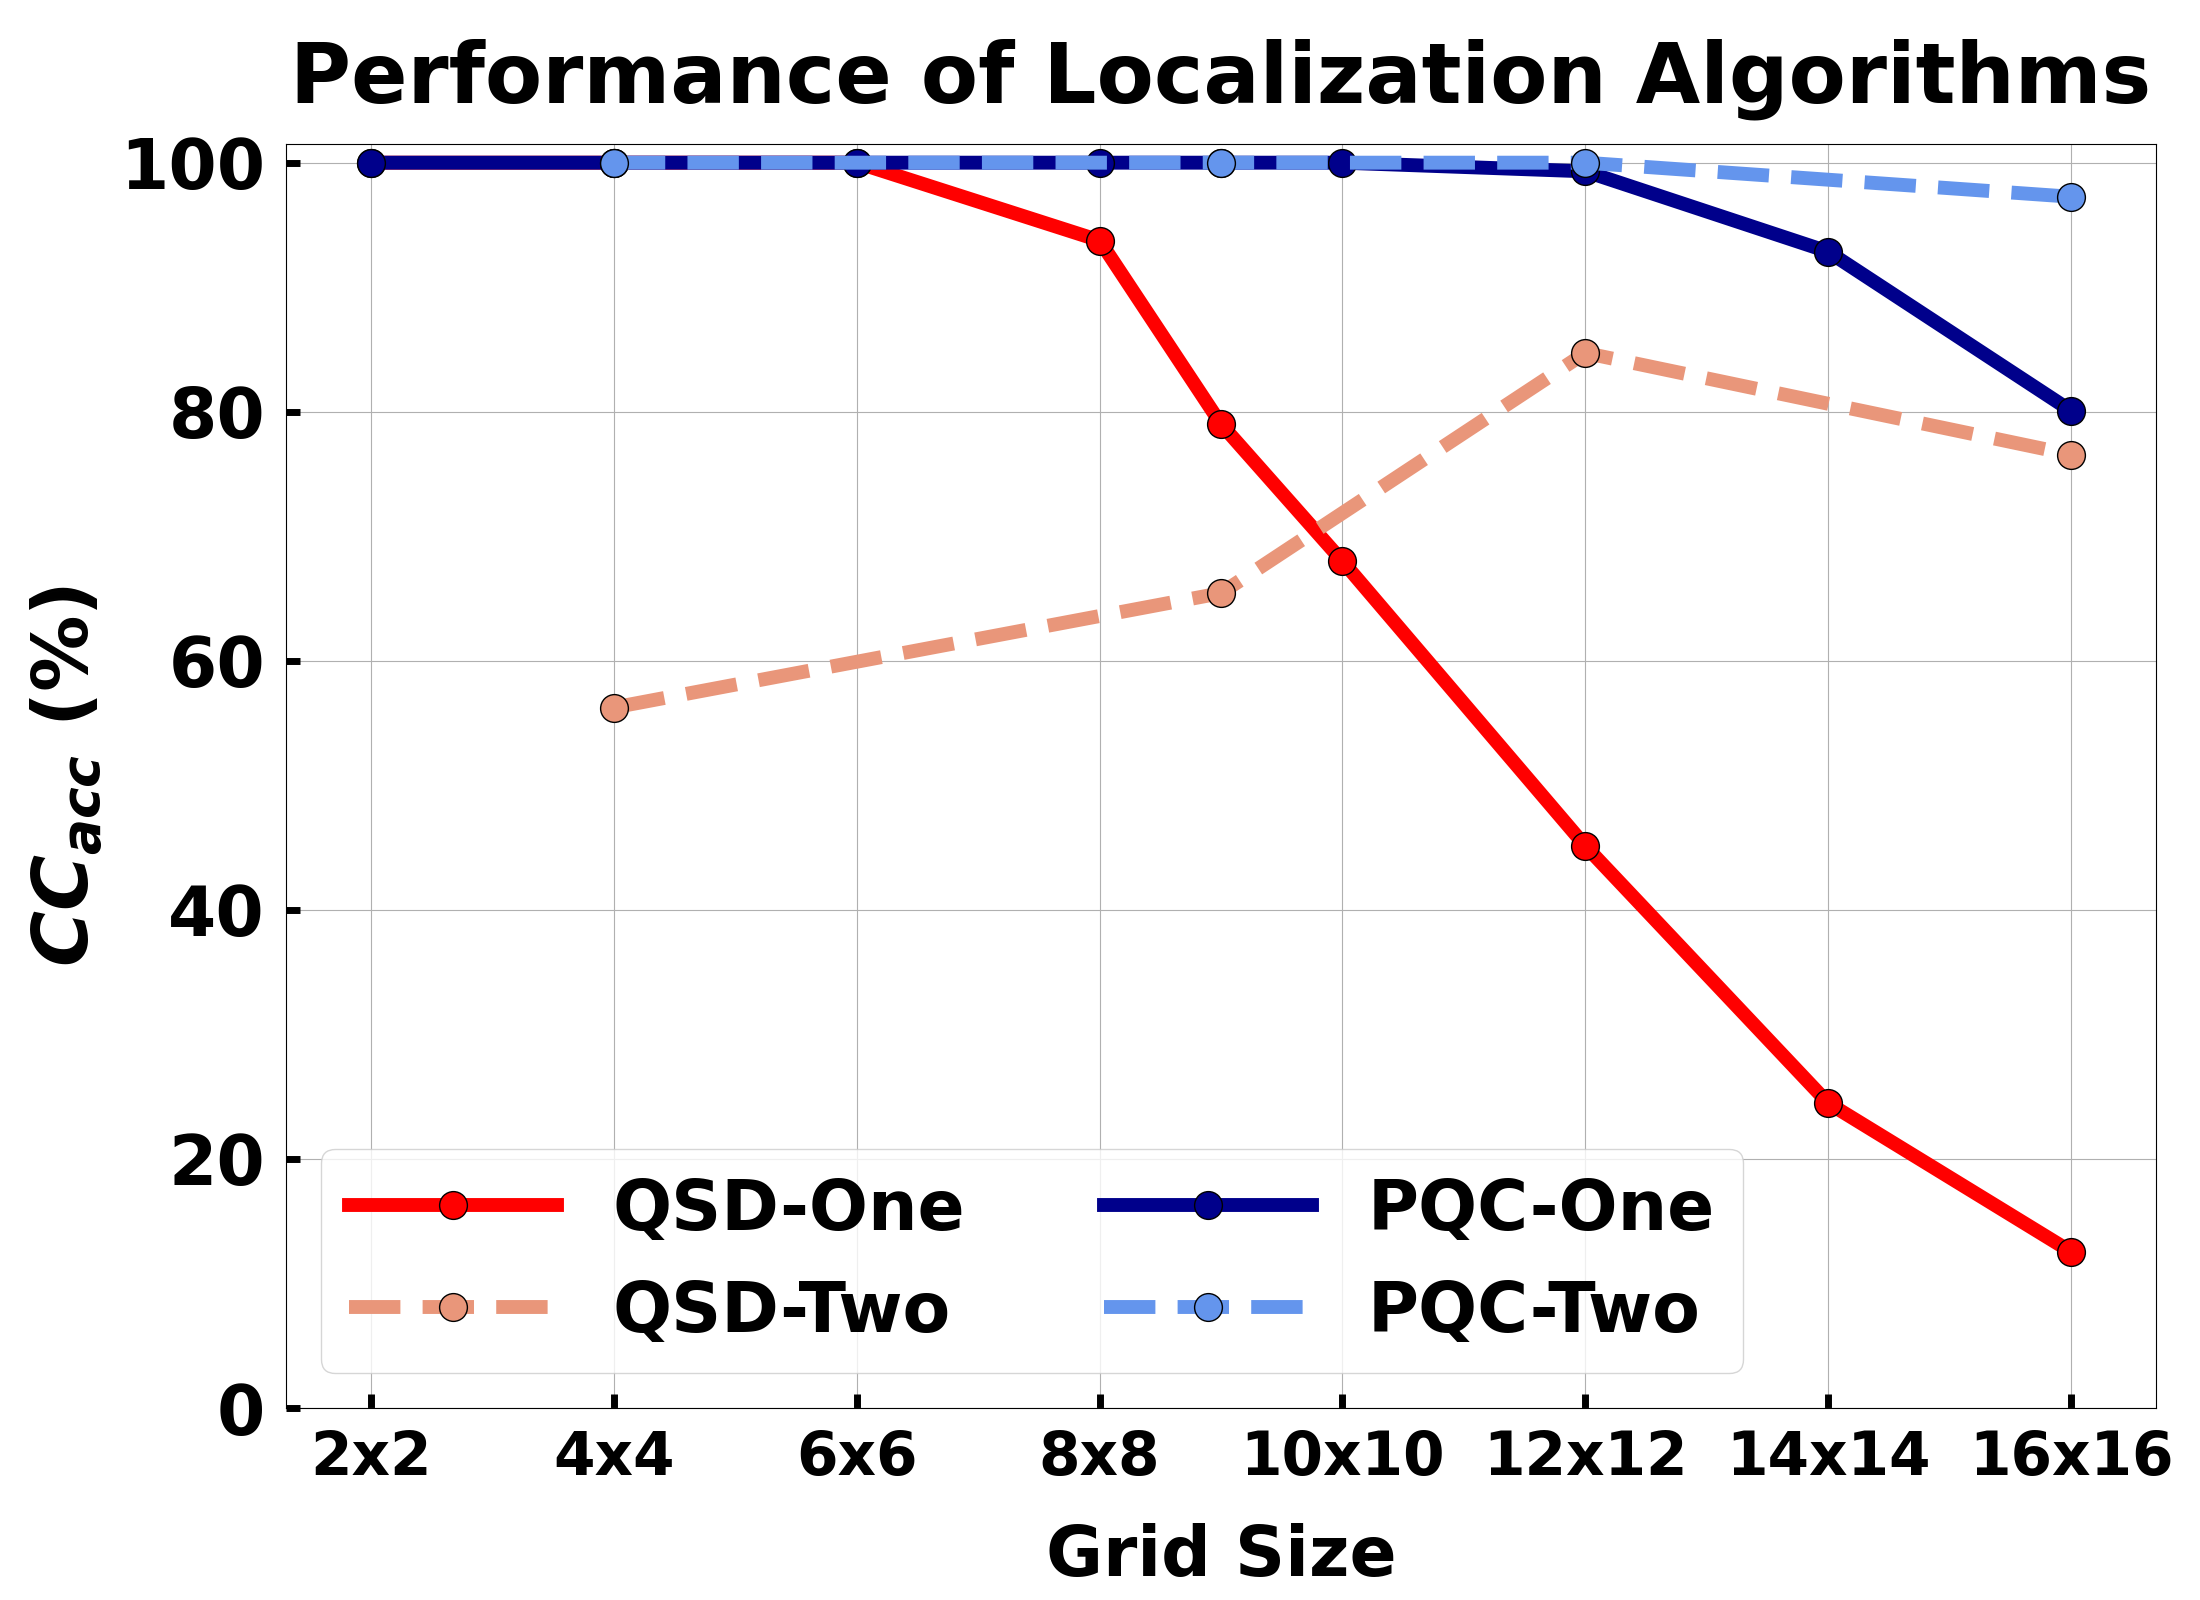
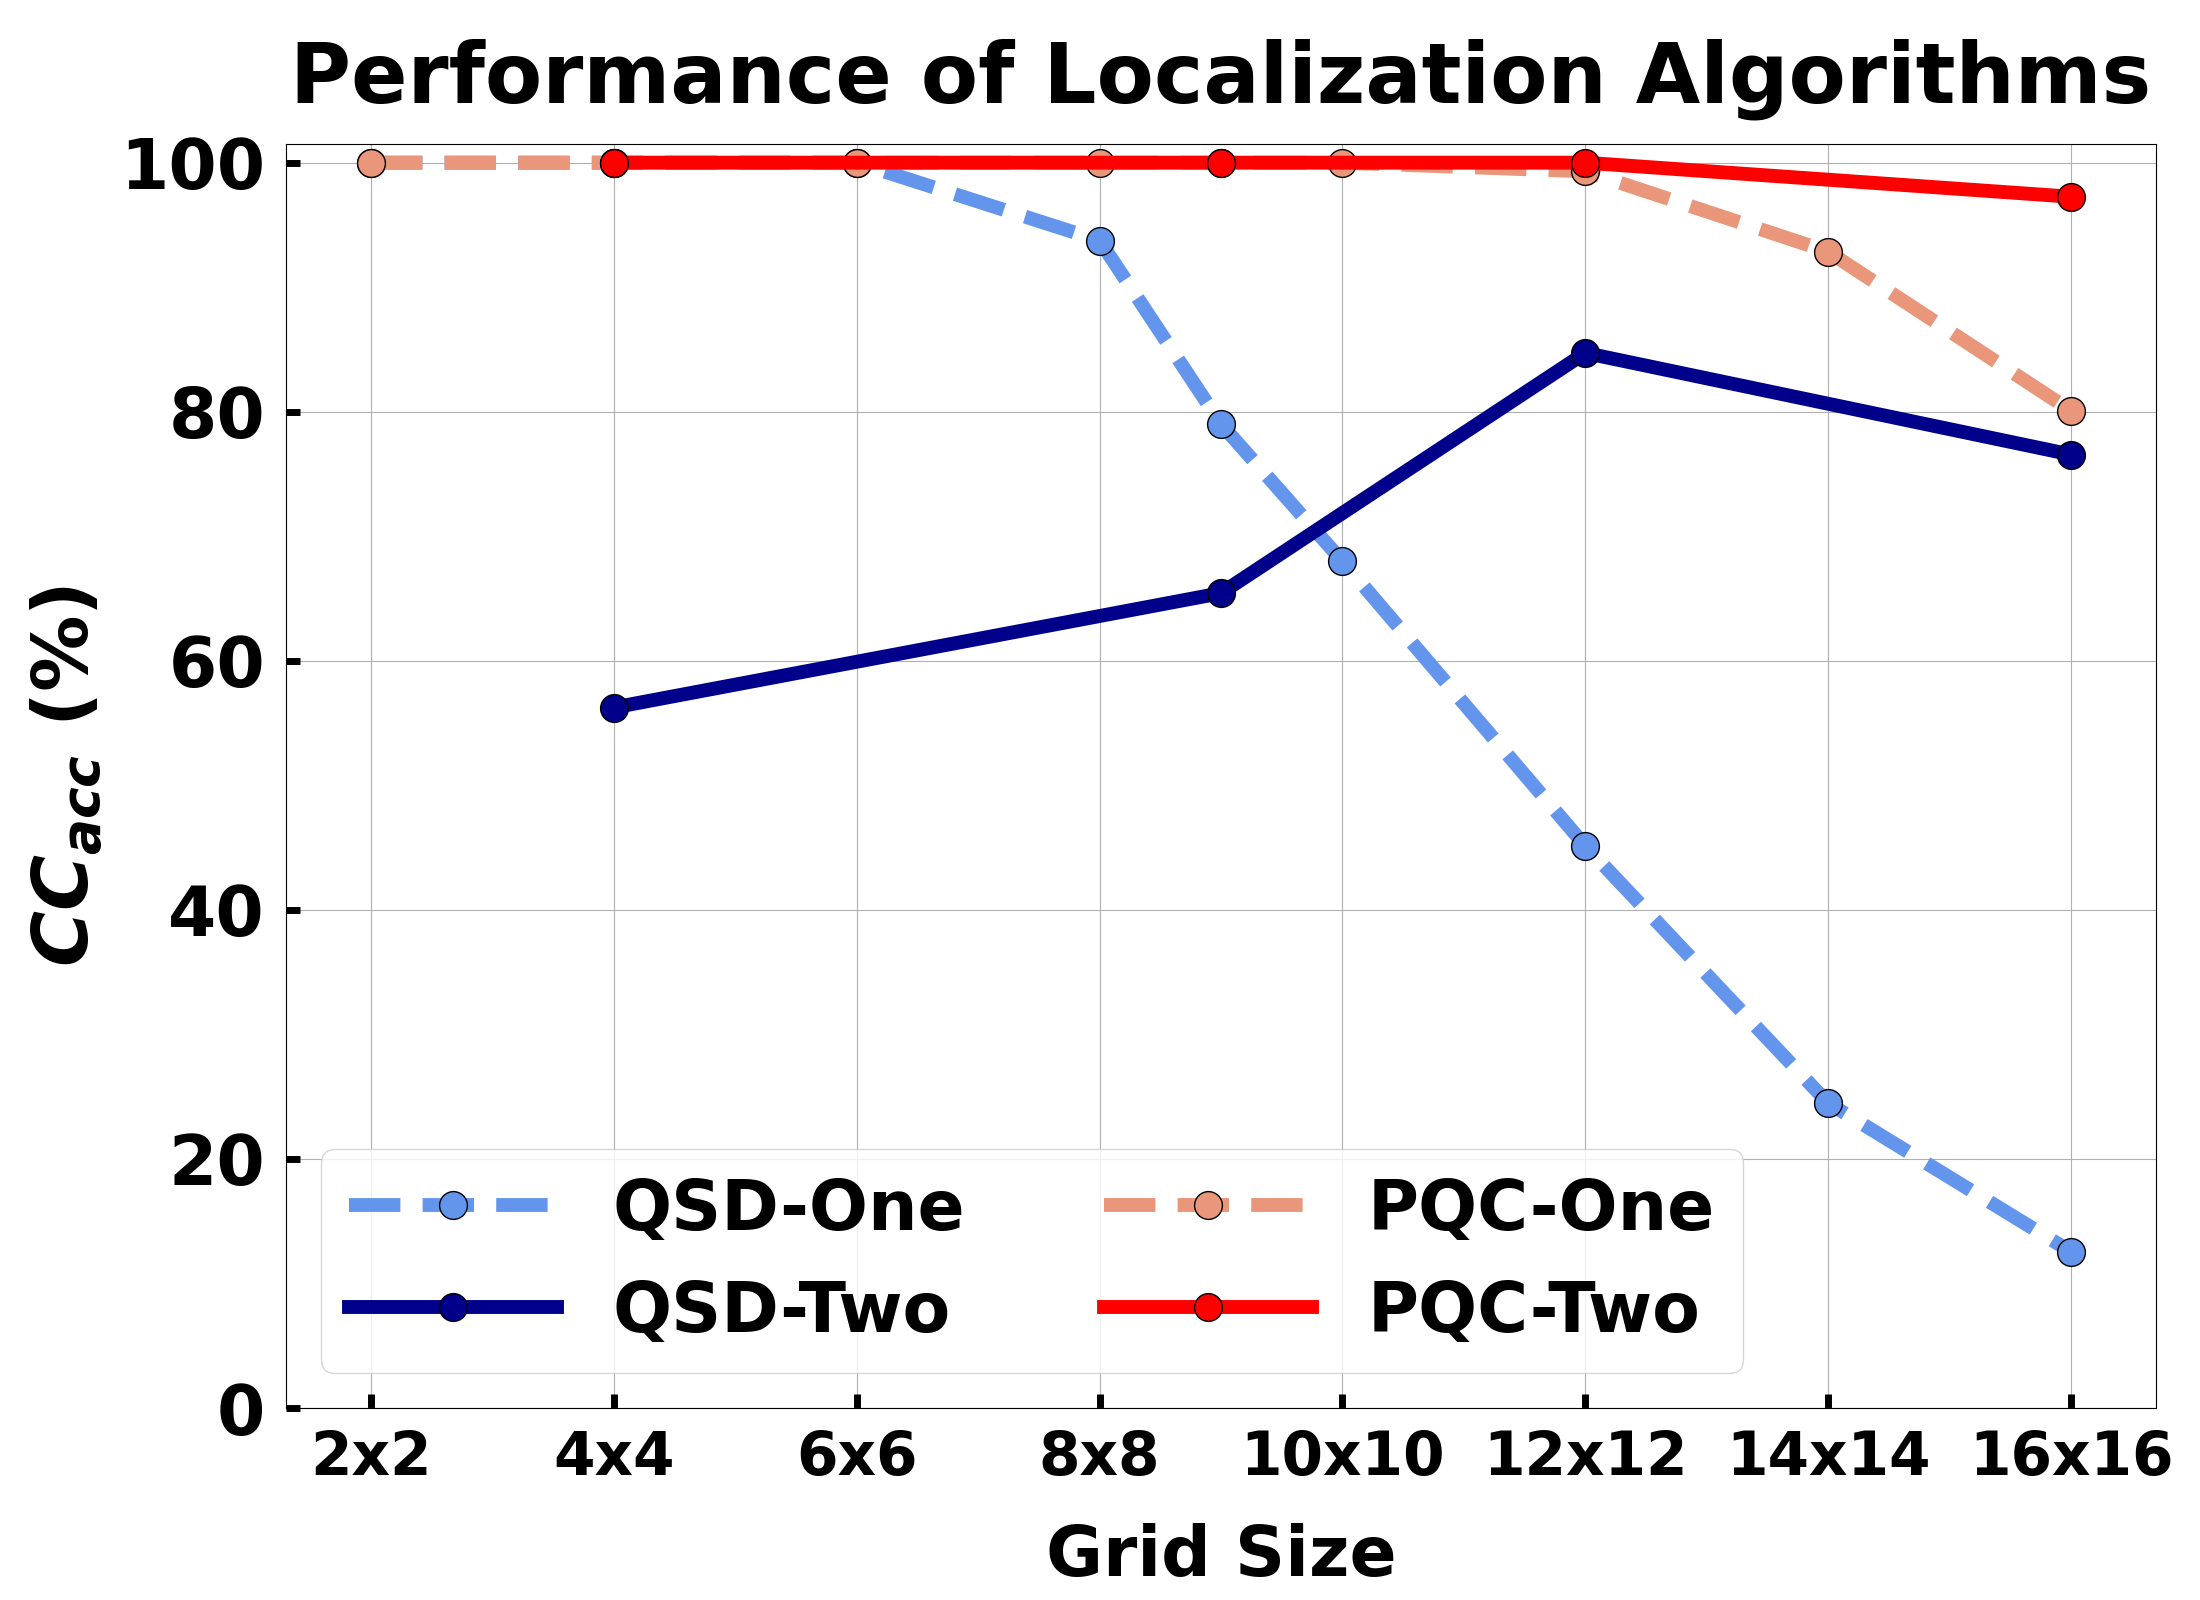
update plots

diff --git a/plot.py b/plot.py
@@ -15,14 +15,14 @@ class Plot:
     plt.rcParams['font.weight'] = 'bold'
     plt.rcParams['axes.labelweight'] = 'bold'
 
-    METHOD  = ['povmloc-one', 'povmloc',    'qml-r',    'qml-r-two',      'qml-c',    'qml-c-two',     'qml-ibmq_manila',       'qml-two-ibmq_manila']
-    _LEGEND = ['QSD-One',     'QSD-Two',    'PQC-One',  'PQC-Two',        'PQC-One',  'PQC-Two',       'PQC-One (IBM Quantum)', 'PQC-two (IBM Quantum)']
+    METHOD  = ['povmloc-one',    'povmloc',  'qml-r',      'qml-r-two', 'qml-c',       'qml-c-two',     'qml-ibmq_manila',       'qml-two-ibmq_manila']
+    _LEGEND = ['QSD-One',        'QSD-Two',  'PQC-One',    'PQC-Two',   'PQC-One',     'PQC-Two',       'PQC-One (IBM Quantum)', 'PQC-two (IBM Quantum)']
     LEGEND  = dict(zip(METHOD, _LEGEND))
 
-    _COLOR  = ['r',           'darksalmon', 'darkblue', 'cornflowerblue', 'darkblue', 'cornflowerblue', 'green',                'springgreen']
+    _COLOR  = ['cornflowerblue', 'darkblue', 'darksalmon', 'r',          'darksalmon', 'r',             'springgreen',            'green']
     COLOR   = dict(zip(METHOD, _COLOR))
 
-    _LINE   = ['-',           '--',         '-',        '--',             '-',        '--',             '-',                    '--']
+    _LINE   = ['--',           '-',         '--',        '-',             '--',        '-',             '--',                    '-']
     LINE    = dict(zip(METHOD, _LINE))
 
 
@@ -578,10 +578,10 @@ if __name__ == '__main__':
 
     continuous_varygrid()
     continuous_varysensornum()
-    # localization_error_cdf()
+    localization_error_cdf()
     
-    # discrete_varygrid()
-    # discrete_varysensornum()
+    discrete_varygrid()
+    discrete_varysensornum()
     
 
     # IBM    
